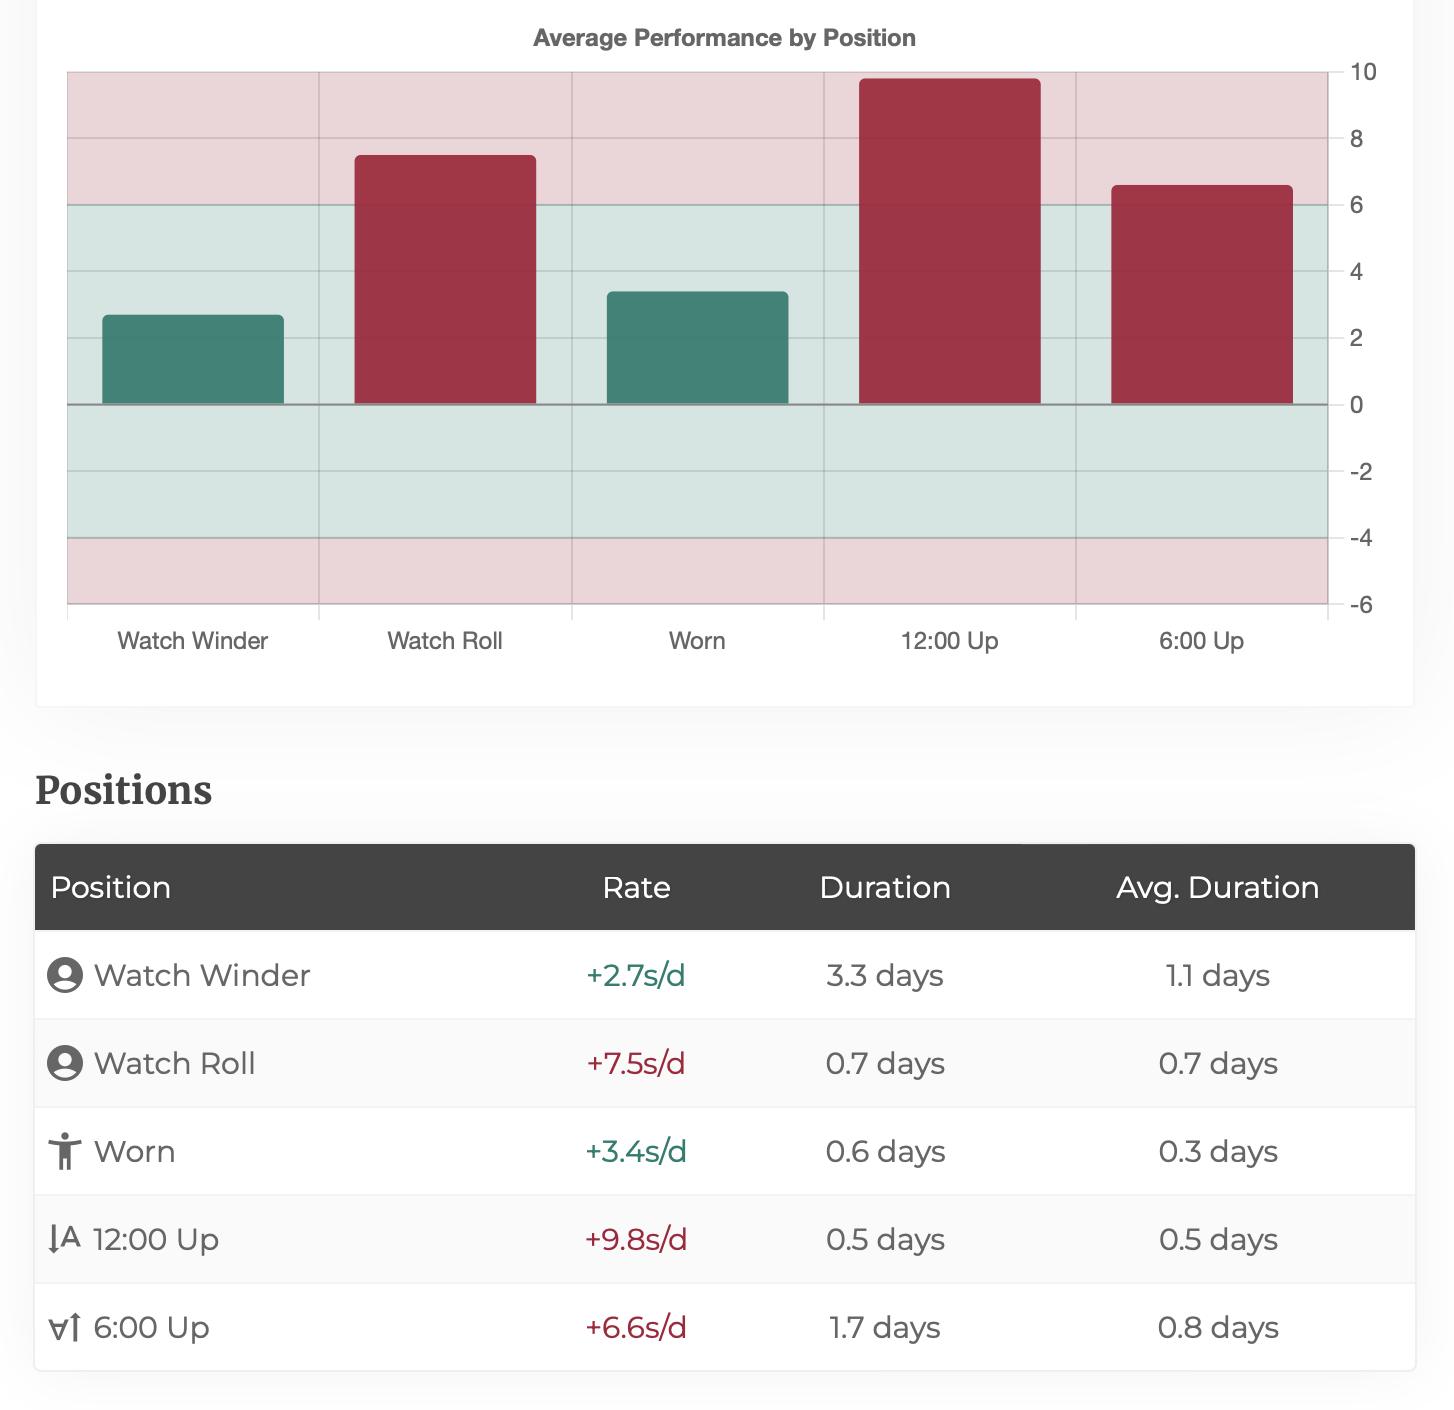
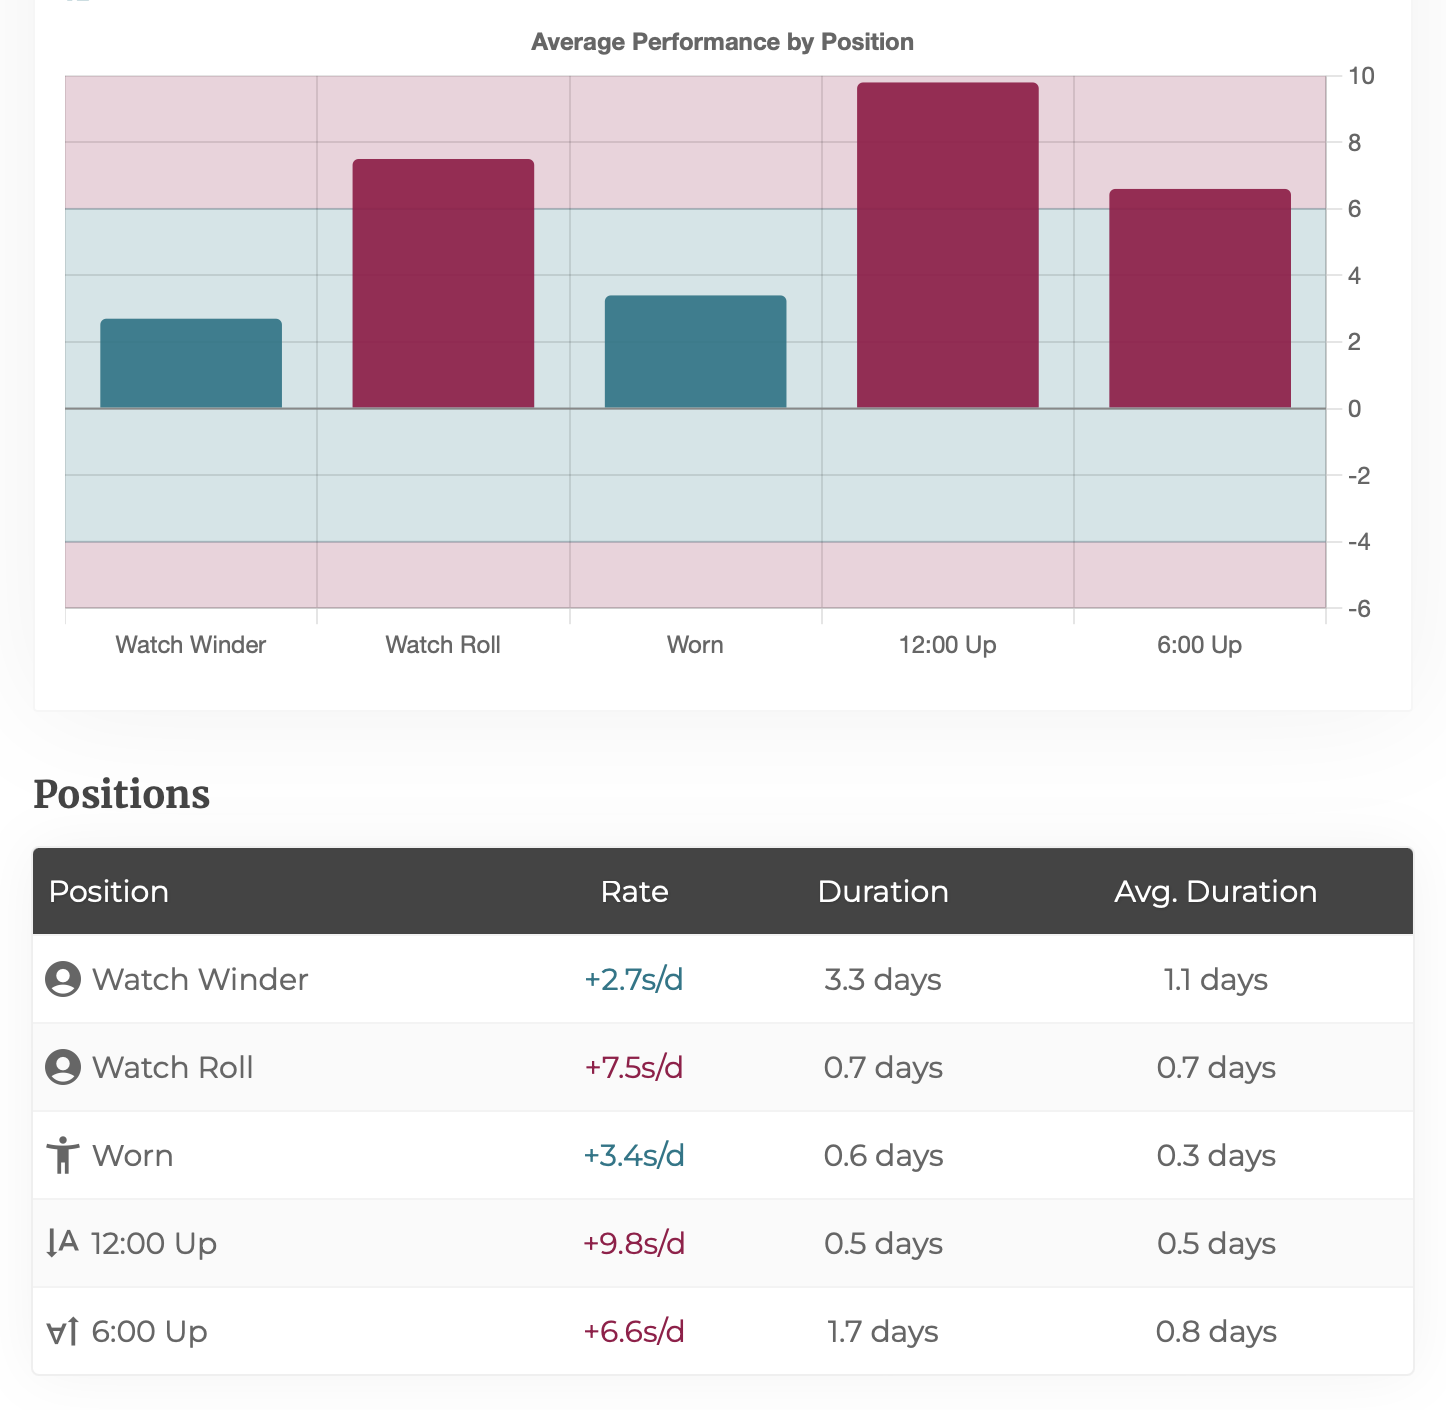
Reworked homepage imagery

diff --git a/built/components/home/home-templates.js b/built/components/home/home-templates.js
@@ -39,7 +39,7 @@ img.feature,
 		display: block;
 		position: absolute;
 		top: 0; right: 0; bottom: 0; left: 0;
-		opacity: 0.5;
+		opacity: 0.75;
 		mix-blend-mode: overlay;
 		background: linear-gradient(135deg, var(--muted-bad), var(--muted-good) 100%, var(--muted-good));
 		background-repeat: no-repeat;
@@ -130,7 +130,7 @@ gwbw-icon.between-screenshots {
 		Quickly understand how the timing of your watch drifts against perfect time and whether it falls within expected accuracy specs.
 	</p>
 	<br>
-	<img class="feature" src="assets/images/screenshots/example-deviation-graph.png?v=2" alt="screenshot of line graph" style="1378 / 794;">
+	<img class="feature" src="assets/images/screenshots/example-deviation-graph.png?v=3" alt="screenshot of line graph" style="aspect-ratio: 1368 / 802;">
 	<br><br><br><br>
 </div>
 
@@ -140,7 +140,7 @@ gwbw-icon.between-screenshots {
 		Gain insight into how different positions affect the time keeping of your watch so you can use them to your advantage.
 	</p>
 	<br>
-	<img class="feature" src="assets/images/screenshots/example-positions-graph.png?v=2" alt="screenshot of bar graph" style="aspect-ratio: 1480 / 1410;">
+	<img class="feature" src="assets/images/screenshots/example-positions-graph.png?v=3" alt="screenshot of bar graph" style="aspect-ratio: 1446 / 1410;">
 	<br><br><br><br>
 </div>
 
@@ -150,9 +150,9 @@ gwbw-icon.between-screenshots {
 		Slice and dice the data any way you want; zoom in on a particular section of a timing session to get a closer look.
 	</p>
 	<br>
-	<img class="feature" src="assets/images/screenshots/example-measures.jpg?v=2" alt="screenshot of list of measures" style="aspect-ratio: 1454 / 1154;">
+	<img class="feature" src="assets/images/screenshots/example-measures.jpg?v=3" alt="screenshot of list of measures" style="aspect-ratio: 1448 / 1148;">
 	<gwbw-icon class="between-screenshots" name="arrow_downward"></gwbw-icon>
-	<img class="feature" src="assets/images/screenshots/example-interval.png?v=2" alt="screenshot of positions graph" style="aspect-ratio: 1376 / 772;">
+	<img class="feature" src="assets/images/screenshots/example-interval.png?v=3" alt="screenshot of positions graph" style="aspect-ratio: 1362 / 778;">
 	<br><br><br><br>
 </div>
 

diff --git a/src/components/home/home-templates.ts b/src/components/home/home-templates.ts
@@ -42,7 +42,7 @@ img.feature,
 		display: block;
 		position: absolute;
 		top: 0; right: 0; bottom: 0; left: 0;
-		opacity: 0.5;
+		opacity: 0.75;
 		mix-blend-mode: overlay;
 		background: linear-gradient(135deg, var(--muted-bad), var(--muted-good) 100%, var(--muted-good));
 		background-repeat: no-repeat;
@@ -133,7 +133,7 @@ gwbw-icon.between-screenshots {
 		Quickly understand how the timing of your watch drifts against perfect time and whether it falls within expected accuracy specs.
 	</p>
 	<br>
-	<img class="feature" src="assets/images/screenshots/example-deviation-graph.png?v=2" alt="screenshot of line graph" style="1378 / 794;">
+	<img class="feature" src="assets/images/screenshots/example-deviation-graph.png?v=3" alt="screenshot of line graph" style="aspect-ratio: 1368 / 802;">
 	<br><br><br><br>
 </div>
 
@@ -143,7 +143,7 @@ gwbw-icon.between-screenshots {
 		Gain insight into how different positions affect the time keeping of your watch so you can use them to your advantage.
 	</p>
 	<br>
-	<img class="feature" src="assets/images/screenshots/example-positions-graph.png?v=2" alt="screenshot of bar graph" style="aspect-ratio: 1480 / 1410;">
+	<img class="feature" src="assets/images/screenshots/example-positions-graph.png?v=3" alt="screenshot of bar graph" style="aspect-ratio: 1446 / 1410;">
 	<br><br><br><br>
 </div>
 
@@ -153,9 +153,9 @@ gwbw-icon.between-screenshots {
 		Slice and dice the data any way you want; zoom in on a particular section of a timing session to get a closer look.
 	</p>
 	<br>
-	<img class="feature" src="assets/images/screenshots/example-measures.jpg?v=2" alt="screenshot of list of measures" style="aspect-ratio: 1454 / 1154;">
+	<img class="feature" src="assets/images/screenshots/example-measures.jpg?v=3" alt="screenshot of list of measures" style="aspect-ratio: 1448 / 1148;">
 	<gwbw-icon class="between-screenshots" name="arrow_downward"></gwbw-icon>
-	<img class="feature" src="assets/images/screenshots/example-interval.png?v=2" alt="screenshot of positions graph" style="aspect-ratio: 1376 / 772;">
+	<img class="feature" src="assets/images/screenshots/example-interval.png?v=3" alt="screenshot of positions graph" style="aspect-ratio: 1362 / 778;">
 	<br><br><br><br>
 </div>
 
